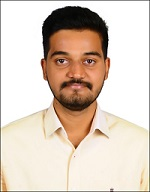
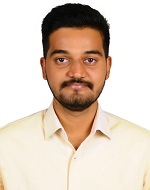
added flex box to other sections &  box shadow to all sections

diff --git a/Personal Portfolio/personal portfolio.html b/Personal Portfolio/personal portfolio.html
@@ -15,12 +15,12 @@
             <nav>
                 <div id="nav-bar">
                     <a id="navLogo" href="#">SRedCodes</a>
-                    <a class="navLinkElements" href="#about">About</a>
-                    <a class="navLinkElements" href="#testimony">Testimonials</a>
-                    <a class="navLinkElements" href="#resume">Resume</a>
-                    <a class="navLinkElements" href="#projects">Projects</a>
-                    <!-- <a class="navLinkElements" href="#blog">Blog</a> -->
-                    <a class="navLinkElements" href="#contact">Contact</a>
+                    <a class="navBar-LinkElements" href="#about">About</a>
+                    <a class="navBar-LinkElements" href="#testimony">Testimonials</a>
+                    <!-- <a class="navBar-LinkElements" href="#resume">Resume</a> -->
+                    <a class="navBar-LinkElements" href="#projects">Projects</a>
+                    <!-- <a class="navBar-LinkElements" href="#blog">Blog</a> -->
+                    <a class="navBar-LinkElements" href="#contact-me">Contact</a>
                 </div>
             </nav>
             <div id="hero-section">
@@ -32,45 +32,97 @@
         <main>
            
             <article id="about">
-                <h2>About Me</h2>
-                        <img src="Img/SR Profile Picture.JPG"  width="150" height="192"/>
-                            <p>Name : Srikanth Reddy</p>
-                            <p>Job Profile : Frontend Developer</p>
-                            <p>Email : srika.kodes@gmail.com</p>
-                            <p>Phone : 85229xxxxx</p>
-                            <p>twitter : Sample_tw</p>
-                            <p>Skills:&nbsp;&nbsp;&nbsp;<em><strong>HTML, CSS , Javascript , ReactJS </strong></em></p>
-                    <aside>Lorem ipsum dolor sit, amet consectetur adipisicing elit. Pariatur neque voluptatem aperiam quidem quia in! Dicta rem, sed laboriosam eaque atque numquam corrupti aperiam, ex sunt enim id cupiditate voluptates.</aside>
-                    <div id="intro-work-tiles">
-                        <p class="intro-work-tiles">20 Projects completed</p>
-                        <p class="intro-work-tiles">3+ Years of Experience</p>
-                        <p class="intro-work-tiles">15 Clients Handled</p> 
+             <h2>About Me</h2>
+                    <div id="about-Outer-Div">
+                        <div id="innerDivOne">
+                            <div id="innerDiv-bioDiv">
+                                <div>
+                                    <img src="Img/SR Profile Picture.JPG"  width="150" height="190"/>
+                                </div>
+                                <!-- <div id="innerDiv-biotextDiv">
+                                    <p><strong>Name</strong> : Srikanth Reddy</p>
+                                    <p><strong>Job Profile</strong> : Frontend Developer</p>
+                                    <p><strong>Email</strong> : srika.kodes@gmail.com</p>
+                                    <p><strong>Phone</strong> : 85229xxxxx</p>
+                                    <p><strong>twitter</strong> : <a href="https://twitter.com/">Sample_tw</a></p>
+                                </div> -->
+                                <table>
+                                    <tr>
+                                        <td><strong>Name :</strong></td> 
+                                        <td>Srikanth Reddy</td>
+                                    </tr>
+                                    <tr>
+                                        <td><strong>Job Profile :</strong></td>
+                                        <td>Frontend Developer</td>
+                                    </tr>
+                                    <tr>
+                                        <td><strong>Email :</strong> </td>
+                                        <td>srika.kodes@gmail.com</td>
+                                    </tr>
+                                    <tr>
+                                        <td><strong>Phone No. :</strong> </td>
+                                        <td> 85229xxxxx</td>
+                                    </tr>  
+                                </table>
+                            </div>
+                            <div>
+                            <table>
+                                <tr>
+                                    <td><strong>Skills :</strong></td>
+                                    <td><em><strong>HTML, CSS , Javascript , ReactJS </strong></em></td>
+                                </tr>
+                                <tr>
+                                    <td><strong>Education :</strong></td>
+                                    <td>B. Tech from JNTUH in Electronics & Communication Engg.</td>
+                                </tr>
+                                <tr>
+                                    <td><strong>Work Experience :</strong></td>
+                                    <td>3 Years of Experience as  Automation QA using Selenium , Java and Python </td>
+                                </tr>
+                            </table>
+                            </div>
+                        </div>
+                        <div id="innerDivTwo">
+                        <p>Lorem ipsum dolor sit, amet consectetur adipisicing elit. Pariatur neque voluptatem aperiam quidem quia in! Dicta rem, sed laboriosam eaque atque numquam corrupti aperiam, ex sunt enim id cupiditate voluptates. </p>
+                        <p>Lorem ipsum dolor sit amet consectetur adipisicing elit. Id, voluptatibus vitae! Beatae doloribus quo, repellendus vero, cupiditate rerum consectetur porro earum laudantium consequuntur, aspernatur ullam placeat saepe rem eaque voluptatibus.</p>
+                            <div id="intro-work-tiles">
+                                <p class="intro-work-tiles">20 Projects completed</p>
+                                <p class="intro-work-tiles">3+ Years of Experience</p>
+                                <p class="intro-work-tiles">15 Clients Handled</p> 
+                            </div>
+                        </div>
                     </div>
                 <!-- <hr> -->
             </article>
             
             <article id="testimony">
                 <h2>Client Testimonials</h2>
-                    <figure>
-                        <img src="Img/SR Profile Picture.JPG" width="150" height="192" alt="client photo" loading="lazy"/>
-                        <figcaption>Srikanth Reddy</figcaption>
-                    </figure>
-                        <p>Lorem ipsum dolor sit amet consectetur adipisicing elit. Modi unde, quis omnis quisquam in quibusdam hic qui beatae excepturi autem saepe veritatis consectetur animi a praesentium magni. Distinctio, quaerat obcaecati!</p>
-                        <img src="Img/quotation marks.png" width="50" height="47" alt="quotation mark" loading="lazy"/><br>
-                    <figure>
-                        <img src="Img/SR Profile Picture.JPG" width="150" height="192" alt="client photo" loading="lazy"/>
-                        <figcaption>Srikanth Reddy</figcaption>
-                    </figure>
-                        <p>Lorem ipsum dolor sit amet consectetur adipisicing elit. Nulla voluptatibus numquam omnis inventore repellendus a, doloremque rem voluptatum officia sapiente fugiat fugit doloribus facere libero reprehenderit tenetur odio dolor iure?</p>
-                        <img src="Img/quotation marks.png" width="50" height="47" alt="quotation mark" loading="lazy"/>
-                <hr>
+                <div id="flexDiv-testimony">
+                    <div class="div-clientTestimony">
+                        <figure>
+                            <img src="Img/SR Profile Picture.JPG" width="150" height="190" alt="client photo" loading="lazy"/>
+                            <figcaption>Srikanth Reddy</figcaption>
+                        </figure>
+                            <p>Lorem ipsum dolor sit amet consectetur adipisicing elit. Modi unde, quis omnis quisquam in quibusdam hic qui beatae excepturi autem saepe veritatis consectetur animi a praesentium magni. Distinctio, quaerat obcaecati!</p>
+                            <img src="Img/quotation marks.png" width="50" height="47" alt="quotation mark" loading="lazy"/><br>
+                    </div>
+                    <div class="div-clientTestimony">
+                        <figure>
+                            <img src="Img/SR Profile Picture.JPG" width="150" height="190" alt="client photo" loading="lazy"/>
+                            <figcaption>Srikanth Reddy</figcaption>
+                        </figure>
+                            <p>Lorem ipsum dolor sit amet consectetur adipisicing elit. Nulla voluptatibus numquam omnis inventore repellendus a, doloremque rem voluptatum officia sapiente fugiat fugit doloribus facere libero reprehenderit tenetur odio dolor iure?</p>
+                            <img src="Img/quotation marks.png" width="50" height="47" alt="quotation mark" loading="lazy"/>
+                    </div>
+                </div>
+                <!-- <hr> -->
             </article>
             
-            <article id="resume">
+            <!-- <article id="resume">
                 <h2> Resume</h2>
                     <table>
                         <tr>
-                            <td> <img src="Img/SR Profile Picture.JPG" width="150" height="192" alt="Profile picture" loading="lazy">
+                            <td> <img src="Img/SR Profile Picture.JPG" width="150" height="190" alt="Profile picture" loading="lazy">
                         </tr>
                         <tr>
                             <td>Name:</td> 
@@ -109,21 +161,60 @@
                         </tr>
                     </table>
                     <hr>
-            </article>
+            </article> -->
             
             <article id="blog">
             <h2>Blog & Recent Activities</h2>
-                <section id="projects">
-                    <h3>Projects Handled</h3>
-                    <p>Lorem ipsum dolor sit, amet consectetur adipisicing elit. Fugiat repellendus blanditiis est quis quisquam voluptatem architecto laudantium ipsam culpa. Incidunt, nobis. Sunt esse voluptate cumque aspernatur culpa? Dignissimos, non velit?<br>
-                    Perferendis quis odit eos illo, obcaecati dolorem dignissimos earum! Nam similique ut eveniet illum vero laudantium corporis incidunt maxime at sed earum cum iste cumque, dolor repellendus quo, aut minima?<br>
-                    Maiores ullam nulla corrupti? Qui provident alias officia sint non ratione obcaecati fugit saepe consequuntur ab nesciunt, expedita velit, enim delectus inventore dolores? Accusantium, omnis nostrum at dignissimos asperiores nam?</p>
+                <div id="divBlog">
+                    <section id="projects">
+                        <h3>Projects Handled</h3>
+                        <p>Lorem ipsum dolor sit, amet consectetur adipisicing elit. Fugiat repellendus blanditiis est quis quisquam voluptatem architecto laudantium ipsam culpa. Incidunt, nobis. Sunt esse voluptate cumque aspernatur culpa? Dignissimos, non velit?<br>
+                        Perferendis quis odit eos illo, obcaecati dolorem dignissimos earum! Nam similique ut eveniet illum vero laudantium corporis incidunt maxime at sed earum cum iste cumque, dolor repellendus quo, aut minima?<br>
+                        Maiores ullam nulla corrupti? Qui provident alias officia sint non ratione obcaecati fugit saepe consequuntur ab nesciunt, expedita velit, enim delectus inventore dolores? Accusantium, omnis nostrum at dignissimos asperiores nam?</p>
+                    </section>
+                    <section>
+                        <h3>Certifications</h3>
+                    </section>
+                    <section>
+                        <h3>Github Contributions</h3>
+                    </section>
+                </div>
+            </article>
+            <article id="contact-me">
+                <section>
+                <div id="message-us">
+                    <form action="https://httpbin.org/get" method="get"></form>
+                        <h3>Write to Us</h3>
+                        <p>
+                        <label for="clientName" ></label>
+                        <input type="text" id="clientName" name="clientName" placeholder="Name" size="48">
+                        </p>
+                        <p>
+                        <label for="Email" ></label>
+                        <input type="text" id="Email" name="Email" placeholder="Email" size="48">
+                        </p>
+                        <p>
+                        <label for="Subject" ></label>
+                        <input type="text" id="Subject" name="Subject" placeholder="Subject" size="48">
+                        </p>
+                        <p>
+                        <label for="Message" ></label>
+                        <textarea type="text" id="Message" name="Message" placeholder="Message" rows="10" cols="50"></textarea>
+                        </p>
+                </div>
                 </section>
                 <section>
-                    <h3>Certifications</h3>
-                </section>
-                <section>
-                    <h3>Github Contributions</h3>
+                <div id="get-in-touch">
+                    <h3>Get in Touch</h3>
+                    <p>Lorem ipsum dolor, sit amet consectetur adipisicing elit. Ex consequuntur labore error quo dolore et vitae rem expedita voluptatibus molestias consequatur pariatur vel asperiores odio in architecto, animi minima! Quibusdam.</p>
+                    <address>123 washington dc, USA, 503213</address>
+                    <div>(123) 123-1234</div>
+                    <div>contact@gmail.com</div>
+                    <a class="contact-tiles" href="https://www.facebook.com/">fb</a>
+                    <a class="contact-tiles" href="https://www.instagram.com/">insta</a>
+                    <a class="contact-tiles" href="https://www.linkedin.com/">LinkedIn</a>
+                    <a class="contact-tiles" href="https://twitter.com/">Twitter</a>
+                </div>
                 </section>
             </article>
         
@@ -140,6 +231,5 @@
                 &#169 2023 SRedCodes  
             </div>
         </footer>
-    
     </body>
 </html>

diff --git a/Personal Portfolio/personal portfolio.css b/Personal Portfolio/personal portfolio.css
@@ -4,7 +4,8 @@
     font-family: system-ui, -apple-system, BlinkMacSystemFont, 'Segoe UI', Roboto, Oxygen, Ubuntu, Cantarell, 'Open Sans', 'Helvetica Neue', sans-serif;
 }
 body{
-    background-image: url(Img/kseniya.jpg);
+    /* background-image: url(Img/kseniya.jpg); */
+    background-color: #f5f5f5;
     background-size: cover;
     background-position: center;
 }
@@ -24,16 +25,18 @@ body{
 nav{
     font-weight: 400;
     height: 8vh;
-    background-color: rgb(50, 135, 230);
+    /* background-color: rgb(50, 135, 230); */
+    background-color: #f5f5f5;
     font-size: 16px;
     position: fixed;
     top: 0px;
     width: 100vw;
     z-index: 9999;
+    box-shadow: 0px 0px 5px 1px rgba(0, 0, 0, 0.5);
 }
 
 #navLogo{
-    color:white ;
+    color:rgb(50, 135, 230) ;
     font-size: 28px;
     font-weight: 600;
     text-decoration: none;
@@ -45,9 +48,10 @@ nav{
     transition-timing-function: ease-in-out;
 } */
 
-.navLinkElements{
+.navBar-LinkElements{
     text-transform: uppercase;
     font-weight: 600;
+    color: rgb(50, 135, 230);
 
 }
 
@@ -70,7 +74,6 @@ footer{
     margin-top: 5px;
 }
 a{
-    color: white;
     text-decoration: none;
 
 }
@@ -84,11 +87,81 @@ h2{
     width: 100px;
     padding: 5px;
     margin: 20px;
-    border: 2px solid black;
-    /* display: inline-block; */
+    border-radius: 10%;
+    box-shadow: 0px 0px 5px 1px rgba(0, 0, 0, 0.5);
 }
 #intro-work-tiles{
     display: flex;
     flex-direction: row;
     justify-content: space-evenly;
+}
+.contact-tiles{
+    background-color: chocolate;
+    border: 1px solid rgb(50, 135, 230);
+    border-radius: 50px;
+}
+#contact-me{
+    display: flex;
+    flex-direction: row;
+    justify-content: space-around; 
+}
+#get-in-touch{
+    width: 30vw;
+    line-height: 2;
+    /* border: 1px solid black; */
+}
+#message-us{
+    line-height: 2.5;
+}
+input{
+    height: 25px;
+}
+#innerDivOne{
+    background-color: #ffffff;
+    width: 50vw;
+    padding: 40px;
+    display: flex;
+    flex-direction: column;
+    justify-content: space-around;
+}
+#innerDivTwo{
+    background-color:#ffffff;
+    width: 50vw;
+    padding: 40px;
+}
+#about-Outer-Div{
+    display: flex;
+    box-shadow: 0px 0px 5px 1px rgba(0, 0, 0, 0.5);
+    margin: 50px;
+    border-radius: 5%;
+}
+#innerDiv-bioDiv{
+    display: flex;
+    flex-direction: row;
+    justify-content: space-around;
+}
+/* #innerDiv-biotextDiv{
+    line-height: 2.5;
+} */
+img{
+    border-radius: 5%;
+}
+#flexDiv-testimony{
+    background-color: #ffffff;
+    box-shadow: 0px 0px 5px 1px rgba(0, 0, 0, 0.5);
+    border-radius: 25px;
+    margin: 50px;
+    padding: 40px;
+}
+.div-clientTestimony{
+    display: flex;
+    flex-direction:row;
+    justify-content: center;
+}
+#divBlog{
+    margin: 50px;
+    padding: 40px;
+    box-shadow: 0px 0px 5px 1px rgba(0, 0, 0, 0.5);
+    background-color: #ffffff;
+    border-radius: 25px;
 }
